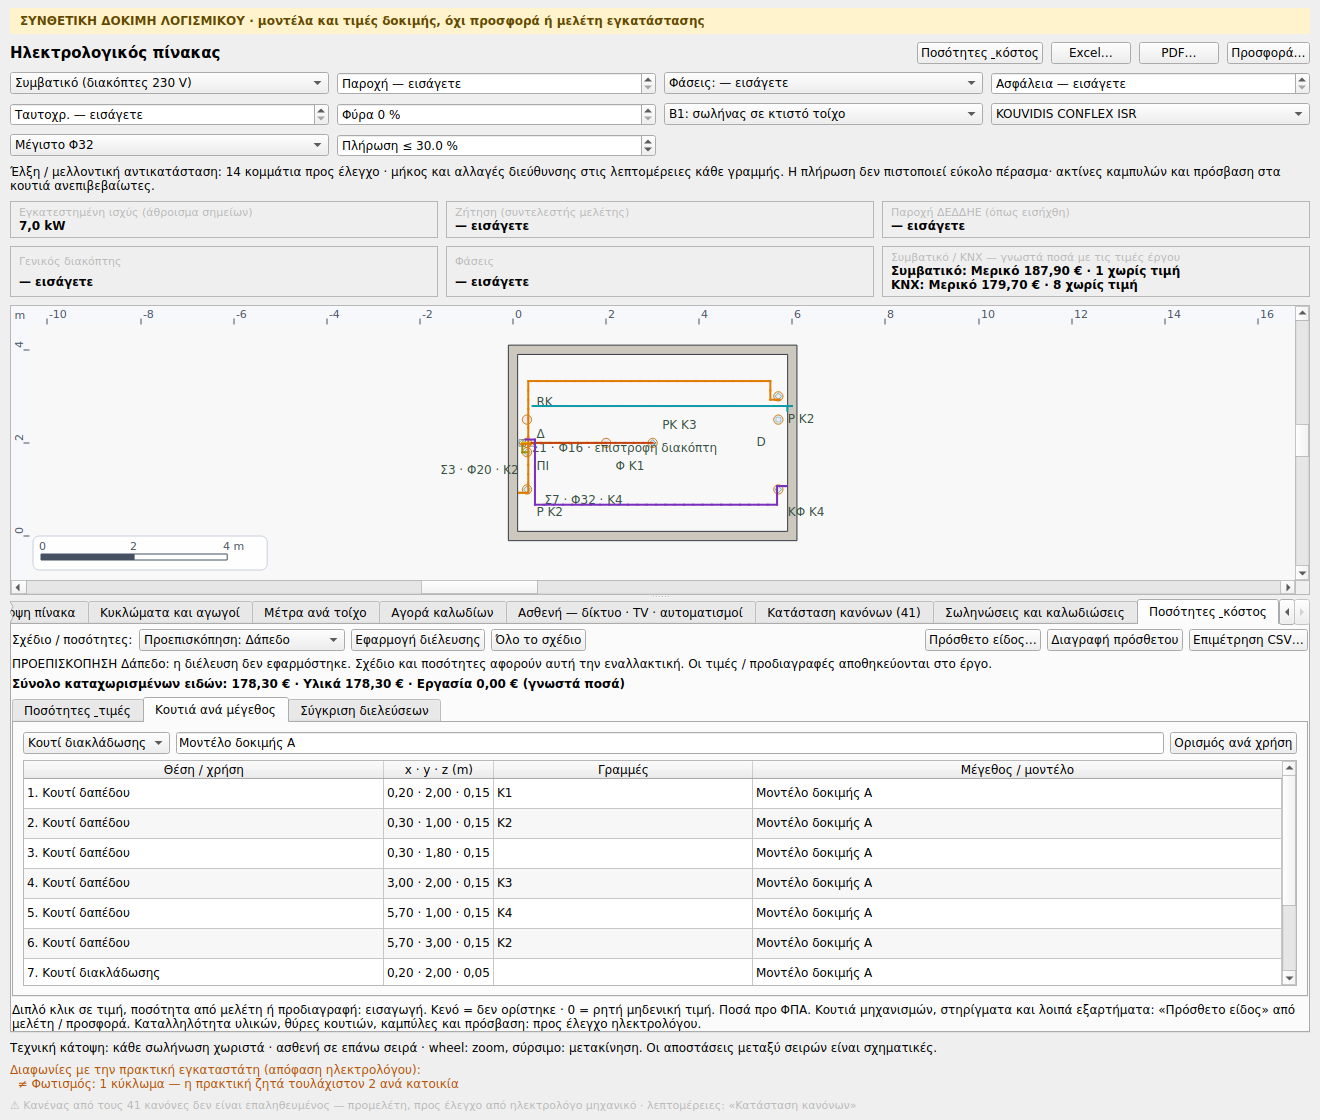
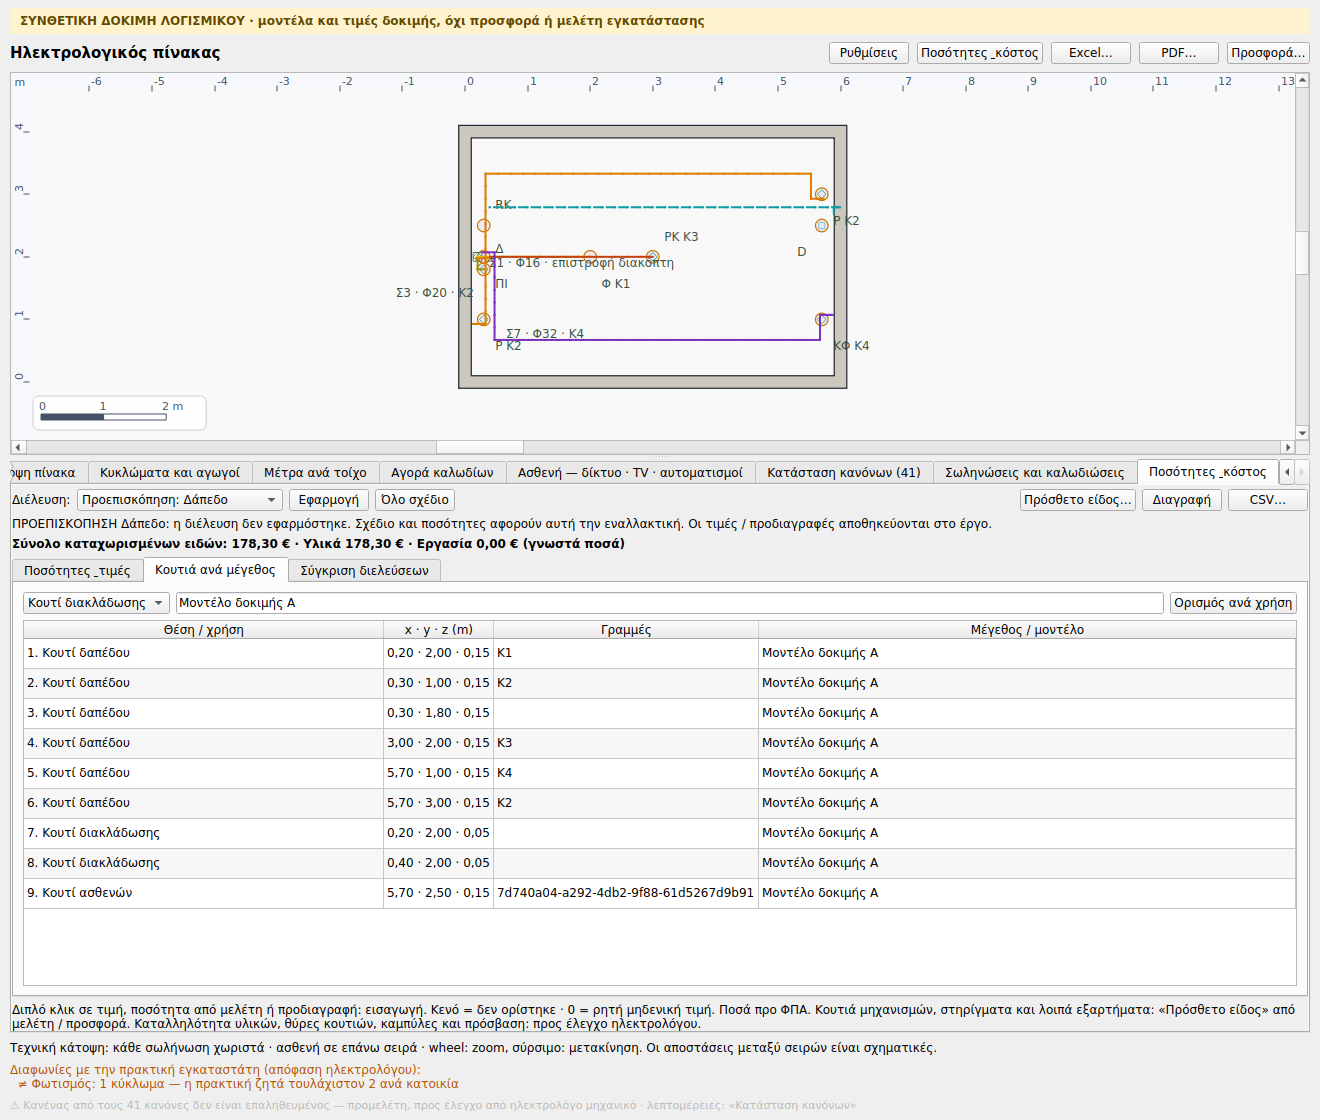
fix(electrical): fit analysis to the owner's 1280x960 screen
Real MainWindow QA exposed a 1334x1024 minimum. Add a failing regression first, then fold the existing engineering settings on the quantities page, keep them available through Settings, shorten its toolbar and scroll the sheet independently. Other panel pages retain expanded controls. Actual owner-sized window is now 1280x960 with a usable table viewport; existing study controls and commands are unchanged.

diff --git a/archforge/ui/electrical_takeoff_page.py b/archforge/ui/electrical_takeoff_page.py
@@ -2,7 +2,7 @@
 from __future__ import annotations
 import csv
 from PySide6.QtCore import Qt
-from PySide6.QtWidgets import (QAbstractItemView,QComboBox,QFileDialog,QHBoxLayout,QHeaderView,QInputDialog,
+from PySide6.QtWidgets import (QAbstractItemView,QComboBox,QFileDialog,QScrollArea,QFrame,QHBoxLayout,QHeaderView,QInputDialog,
                                QDialog,QDialogButtonBox,QFormLayout,QLabel,QLineEdit,QPushButton,QTableWidget,QTableWidgetItem,QTabWidget,QVBoxLayout,QWidget)
 from archforge.mep import electrical_takeoff as E
 
@@ -34,21 +34,22 @@ def _amount(data):
             f"{len(data['missing'])} εκκρεμή είδη · {len(data['geometry_missing'])} ελλείψεις διαδρομών")
 
 
-class ElectricalTakeoffPage(QWidget):
+class ElectricalTakeoffPage(QScrollArea):
     def __init__(self,board):
         super().__init__();self.board=board;self.window=board.window
         self.preview_doc=self.window.doc;self.comparison=None;self._compared=False
-        self.setObjectName('electricalTakeoffPage');root=QVBoxLayout(self);root.setContentsMargins(0,4,0,0)
-        bar=QHBoxLayout();bar.addWidget(QLabel('Σχέδιο / ποσότητες:'))
+        self.setObjectName('electricalTakeoffPage');self.setWidgetResizable(True);self.setFrameShape(QFrame.Shape.NoFrame)
+        content=QWidget();self.setWidget(content);root=QVBoxLayout(content);root.setContentsMargins(0,4,0,0)
+        bar=QHBoxLayout();bar.addWidget(QLabel('Διέλευση:'))
         self.mode=QComboBox();self.mode.setObjectName('electricalPassagePreview');self.mode.addItem('Τρέχον έργο','')
         for key,label in E.MODES.items():self.mode.addItem('Προεπισκόπηση: '+label,key)
-        bar.addWidget(self.mode);self.apply=QPushButton('Εφαρμογή διέλευσης')
+        bar.addWidget(self.mode);self.apply=QPushButton('Εφαρμογή')
         self.apply.setToolTip('Αλλάζει όλα τα ηλεκτρολογικά σημεία προορισμού, ισχυρά και ασθενή. Ένα Undo τα επαναφέρει.')
         bar.addWidget(self.apply)
-        fit=QPushButton('Όλο το σχέδιο');fit.clicked.connect(board.technical_plan.fit_content);bar.addWidget(fit);bar.addStretch(1)
+        fit=QPushButton('Όλο σχέδιο');fit.clicked.connect(board.technical_plan.fit_content);bar.addWidget(fit);bar.addStretch(1)
         extra=QPushButton('Πρόσθετο είδος…');extra.clicked.connect(lambda:self._edit_extra());bar.addWidget(extra)
-        remove=QPushButton('Διαγραφή πρόσθετου');remove.clicked.connect(self._remove_extra);bar.addWidget(remove)
-        export=QPushButton('Επιμέτρηση CSV…');export.clicked.connect(self.export_csv);bar.addWidget(export);root.addLayout(bar)
+        remove=QPushButton('Διαγραφή');remove.setToolTip('Διαγραφή επιλεγμένου πρόσθετου είδους, με Undo');remove.clicked.connect(self._remove_extra);bar.addWidget(remove)
+        export=QPushButton('CSV…');export.clicked.connect(self.export_csv);bar.addWidget(export);root.addLayout(bar)
         self.notice=QLabel();self.notice.setWordWrap(True);root.addWidget(self.notice)
         self.summary=QLabel();self.summary.setWordWrap(True);self.summary.setStyleSheet('font-weight:600');root.addWidget(self.summary)
         self.tabs=QTabWidget();root.addWidget(self.tabs,1)

diff --git a/archforge/ui/electrical_board_tab.py b/archforge/ui/electrical_board_tab.py
@@ -84,6 +84,9 @@ class BoardTab(QWidget):
         self.offer = QPushButton("Προσφορά…"); self.offer.setToolTip("Προσφορά προς τον πελάτη μόνο για τα ηλεκτρολογικά (PDF), "
                                                                     "με τις τιμές του «Τιμές & προσφορά»")
         self.offer.clicked.connect(self.export_offer)
+        self.settings_button = QPushButton('Ρυθμίσεις'); self.settings_button.setCheckable(True); self.settings_button.setChecked(True)
+        self.settings_button.setToolTip('Εμφάνιση / απόκρυψη ρυθμίσεων και στοιχείων πίνακα')
+        head.addWidget(self.settings_button)
         self.analysis_button = QPushButton('Ποσότητες & κόστος')
         self.analysis_button.clicked.connect(lambda: self.pages.setCurrentWidget(self.takeoff_page))
         head.addWidget(self.analysis_button)
@@ -178,12 +181,21 @@ class BoardTab(QWidget):
         self.warnings = QLabel(); self.warnings.setWordWrap(True); self.warnings.setStyleSheet("color:#b45309")
         self.rules_line = QLabel(); self.rules_line.setStyleSheet("color:palette(mid);font-size:11px")
         root.addWidget(self.warnings); root.addWidget(self.rules_line)
+        self.settings_button.toggled.connect(self._set_settings_visible)
 
     def _page_changed(self, _index):
+        self.settings_button.setChecked(self.pages.currentWidget() is not self.takeoff_page)
         if self.pages.currentWidget() is self.takeoff_page:
             self.takeoff_page.refresh()
         else:
             self.technical_plan.rebind(self.window.doc, self.window.stack)
+
+    def _set_settings_visible(self, visible):
+        for widget in (self.control, self.kva, self.phases, self.fuse, self.factor, self.waste, self.method,
+                       self.pipe_profile, self.pipe_max, self.pipe_fill, self.pipe_note):
+            widget.setVisible(visible)
+        for key, (box, _cap, _value) in self.card_labels.items():
+            box.setVisible(visible and key in getattr(self, '_active_card_keys', set()))
 
     @staticmethod
     def _tree(headers):
@@ -264,6 +276,7 @@ class BoardTab(QWidget):
                                                                            if v["priced"] else f"— βάλτε τιμές ({len(v['missing'])} είδη)")
                                        for v in options.values()))
             self.result["cost"] = cost; self.result["cost_current"] = current["total"]
+        self._active_card_keys = set(cards)
         for key, (box, cap, val) in self.card_labels.items():
             box.setVisible(key in cards)
             if key in cards:
@@ -287,6 +300,7 @@ class BoardTab(QWidget):
         self._fill_low_voltage()
         self._fill_conduits(r)
         self.takeoff_page.refresh()
+        self._set_settings_visible(self.settings_button.isChecked())
         return r
 
     def _fill_conduits(self,r):

diff --git a/tests/test_electrical_takeoff_comparison.py b/tests/test_electrical_takeoff_comparison.py
@@ -210,3 +210,15 @@ def test_split_box_uses_the_conduit_maps_existing_coordinate_normalisation(monke
     monkeypatch.setattr(low_voltage,'route_low_voltage_cached',lambda d:{'boxes':[]})
     boxes=box_inventory(Document())
     assert len(boxes)==1 and boxes[0]['split']
+
+
+def test_analysis_fits_the_owners_1280_by_960_screen():
+    from PySide6.QtWidgets import QApplication
+    from archforge.ui.main_window import MainWindow
+    app=QApplication.instance() or QApplication([]);w=MainWindow()
+    try:
+        _flat(w.stack);w._electrical_analysis_action.trigger();w.resize(1280,960);w.show();app.processEvents()
+        assert w.width()<=1280 and w.height()<=960
+        assert w._board_tab.takeoff_page.table.viewport().height()>0
+    finally:
+        w._mark_clean();w.close();app.processEvents()

diff --git a/docs/HANDOFF.md b/docs/HANDOFF.md
@@ -7,6 +7,8 @@
 - Εντολή στην αρχή του πραγματικού μενού «Ηλεκτρολογικά»: **Ανάλυση ηλεκτρολογικών — σχέδιο & κόστος**.
   Ηλεκτρ. πίνακας → Ποσότητες & κόστος, μαζί με τεχνική κάτοψη. **Όλο το σχέδιο** προσαρμόζει την
   προβολή στα πραγματικά primitives, όχι στους απεριόριστους χάρακες/grid.
+  Ανάλυση σε 1280×960: αναδίπλωση ρυθμίσεων/καρτών, σύντομη μπάρα και scroll στο νέο φύλλο.
+  Το «Ρυθμίσεις» επαναφέρει τα ίδια πεδία· άλλες καρτέλες τα εμφανίζουν κανονικά.
 - Ένα electrical_list → κοινό quote.costed / project_pricebook: σωλήνες ανά σειρά/Φ/ζώνη, αγωγοί ανά
   τύπο/διατομή, κουτιά ανά χρήση/ρητό μέγεθος ή μοντέλο, λοιπά ηλεκτρολογικά/ασθενή. Δεν προστίθενται
   δεύτερα κουτιά στον ίδιο υπάρχοντα κόμβο χωρισμού· χρησιμοποιείται η κανονικοποίηση του conduit_map.
